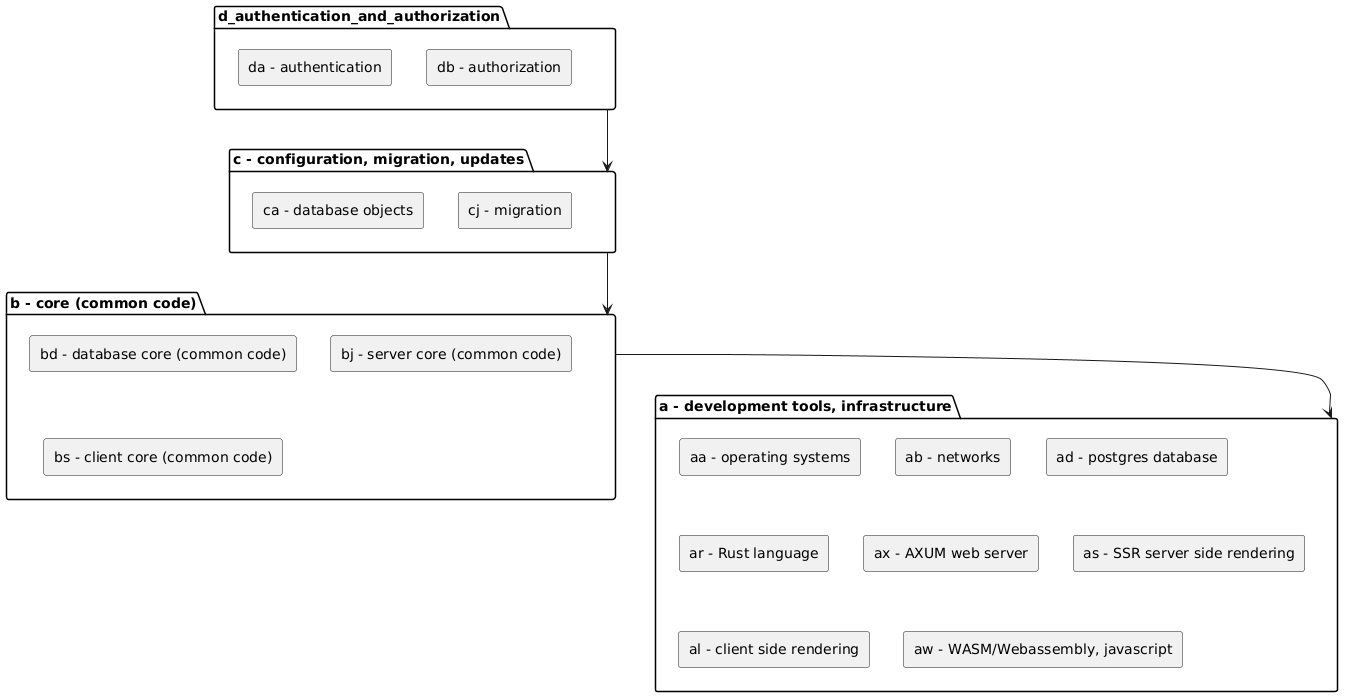
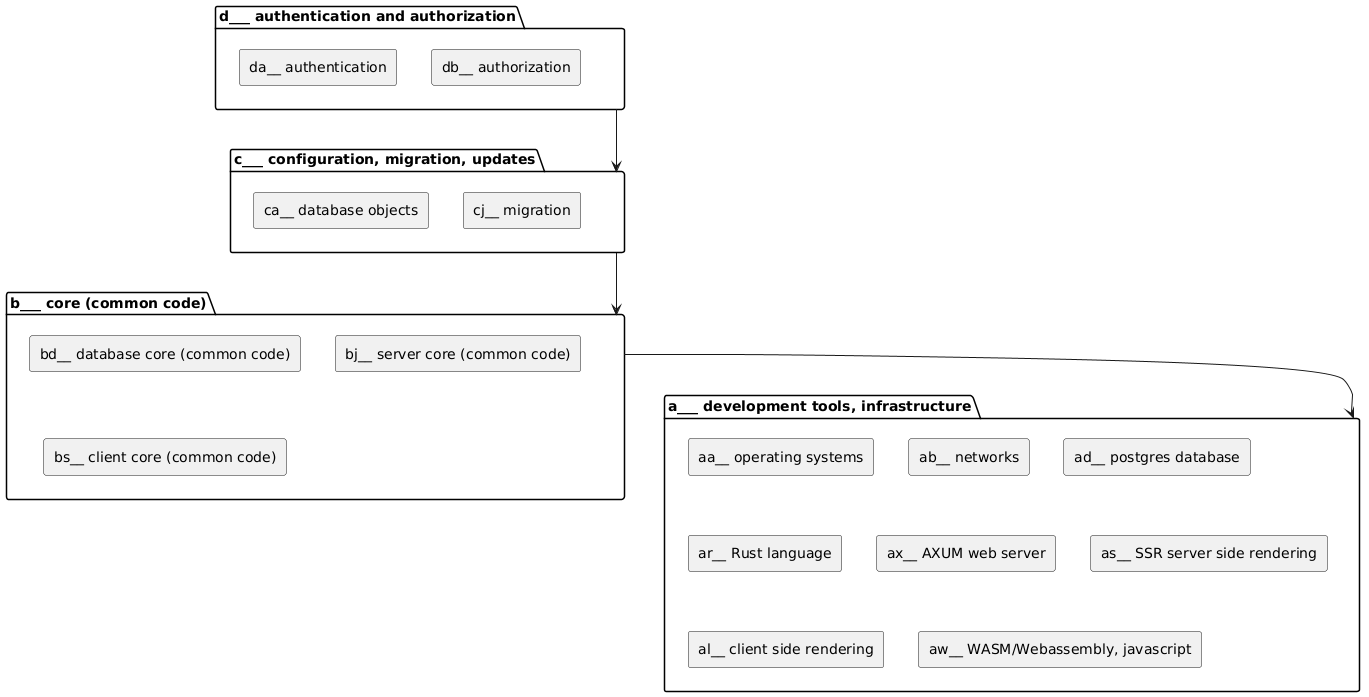
x

diff --git a/README.md b/README.md
@@ -47,10 +47,10 @@ I hope I will not mess this up, because later it will be impossible to change th
 I think a three latter namespace is good for my use-case.
 The first letter defines a big project, that is not dependent of what comes after it.
 
-- [a - development tools, infrastructure](https://github.com/liporuwcha/a_development_tools_infrastructure)
-- [b - common code for the framework](https://github.com/liporuwcha/b_common_code_for_the_framework)
-- [c - configuration, migration, updates](https://github.com/liporuwcha/c_configuration_migration_updates)
-- [d - authentication and authorization](https://github.com/liporuwcha/d_authentication_and_authorization)
+- [a___ development tools, infrastructure](https://github.com/liporuwcha/a___development_tools_infrastructure)
+- [b___ common code for the framework](https://github.com/liporuwcha/b___common_code_for_the_framework)
+- [c___ configuration, migration, updates](https://github.com/liporuwcha/c___configuration_migration_updates)
+- [d___ authentication and authorization](https://github.com/liporuwcha/d___authentication_and_authorization)
 
 letters in between are for future use
 
@@ -69,32 +69,32 @@ letters in between are for future use
 top to bottom direction
 skinparam componentstyle rectangle
 
-folder "d - authentication and authorization" as d {
-[da - authentication]
-[db - authorization]
+folder "d___ authentication and authorization" as d {
+[da__ authentication]
+[db__ authorization]
 }
 
-folder "c - configuration, migration, updates" as c {
-  [ca - database objects]
-  [cj - migration]
+folder "c___ configuration, migration, updates" as c {
+  [ca__ database objects]
+  [cj__ migration]
   
 }
 
-folder "b - core (common code)" as b {
-  [bd - database core (common code)]
-  [bj - server core (common code)]
-  [bs - client core (common code)]
+folder "b___ core (common code)" as b {
+  [bd__ database core (common code)]
+  [bj__ server core (common code)]
+  [bs__ client core (common code)]
 }
 
-folder "a - development tools, infrastructure" as a {
-  [aa - operating systems]
-  [ab - networks]
-  [ad - postgres database]
-  [ar - Rust language]
-  [ax - AXUM web server]
-  [as - SSR server side rendering]
-  [al - client side rendering]
-  [aw - WASM/Webassembly, javascript]
+folder "a___ development tools, infrastructure" as a {
+  [aa__ operating systems]
+  [ab__ networks]
+  [ad__ postgres database]
+  [ar__ Rust language]
+  [ax__ AXUM web server]
+  [as__ SSR server side rendering]
+  [al__ client side rendering]
+  [aw__ WASM/Webassembly, javascript]
 }
 
 d -d-> c
